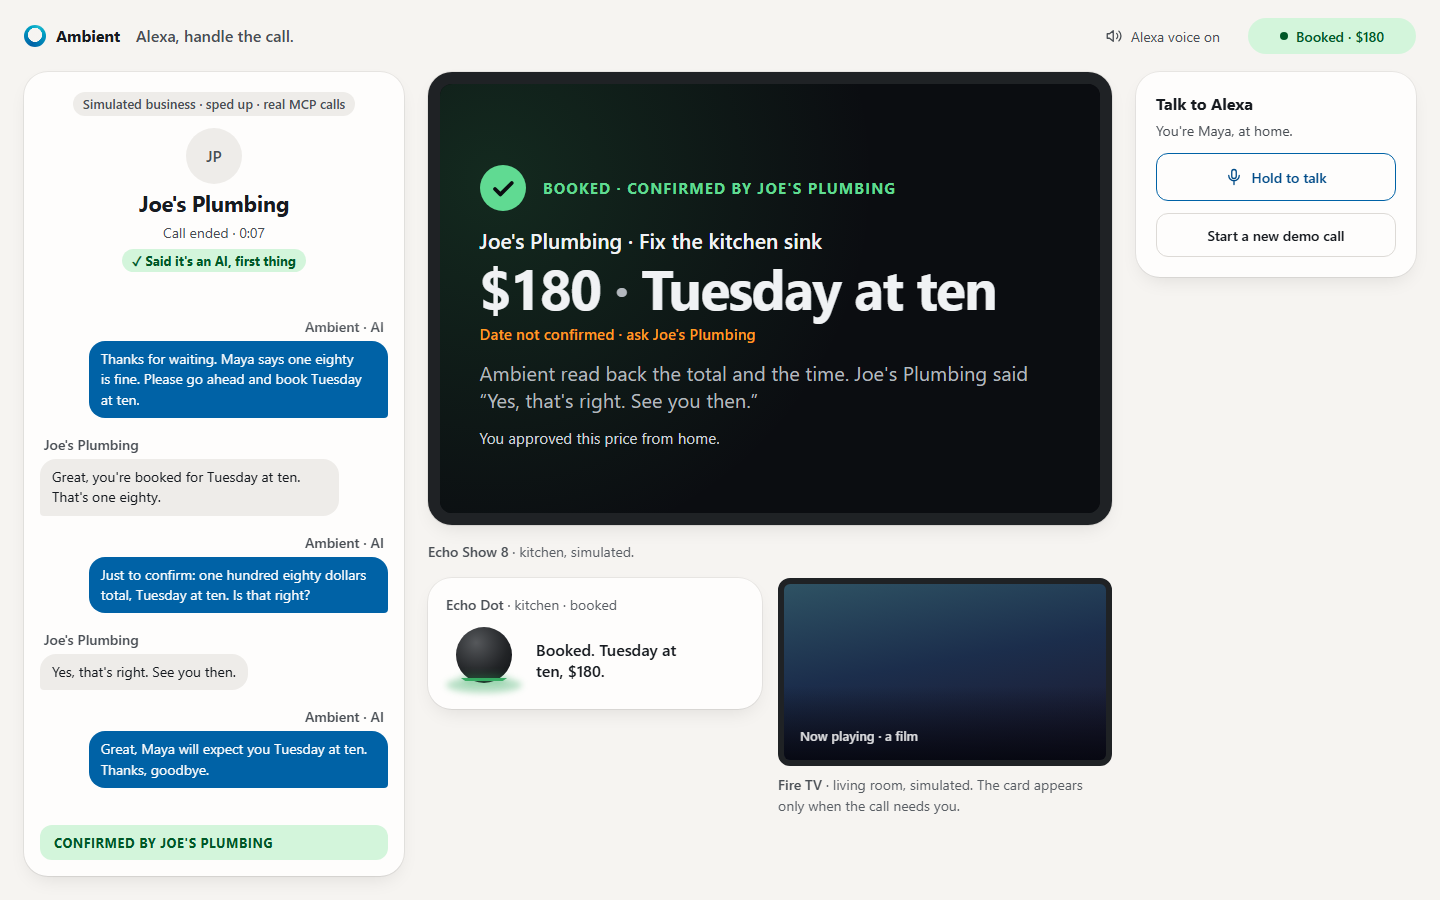
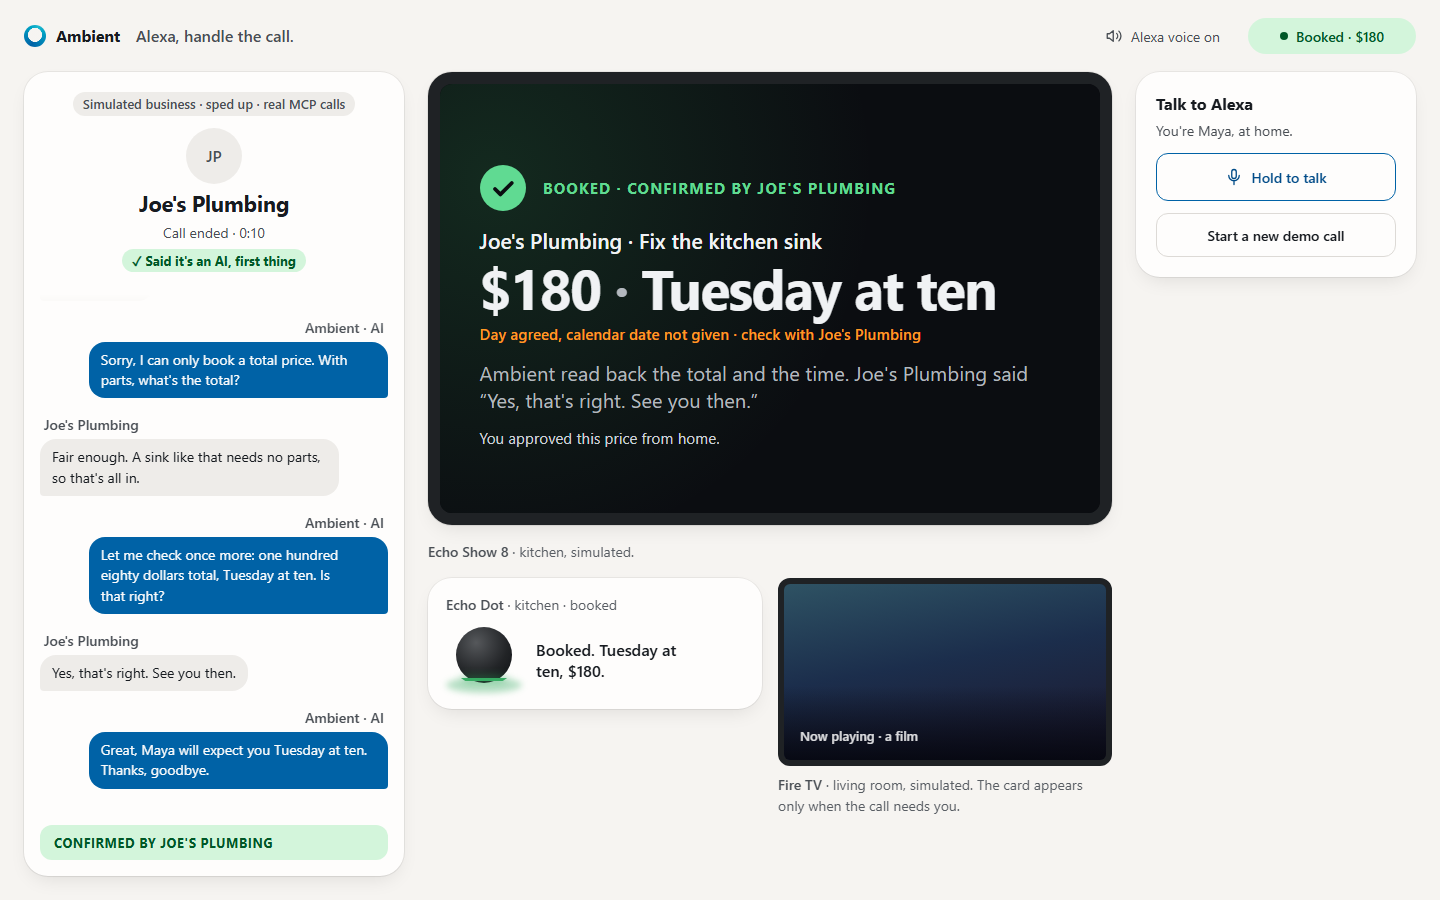
Show the refusal in the demo and fix the owner's cold start
Voice round 5 and judges round 4 asked for these.

- Joe answers the first read-back "Yes, plus parts." Ambient does not
  book, asks for the total, and reads it back again. The smoke run
  fails unless this happens, and sim-refused.png shows it.
- Opening the skill during a held call answers with the call's status
  and choices, not "Who should I call?". The reprompt repeats the
  choices, and Stop says the business is still holding.
- "offer {message}", "say {message}" and "to call {task}" are gone
  from both models, so "offer one fifty" always reaches the amount.
- Both hold lines alternate, and the demo asks the time and the price
  in separate turns.
- The booked card says "Day agreed, calendar date not given" instead
  of contradicting the read-back, and the Echo Dot drops a stale ask
  once the owner has answered.
- sim-card-hero.png is the card alone; eslint ignores .ambient/.

diff --git a/src/calls/demo.ts b/src/calls/demo.ts
@@ -7,12 +7,15 @@ export const JOES_PLUMBING: BusinessPersona = {
   name: "Joe's Plumbing",
   opening: "Oh, okay. Joe's Plumbing, this is Joe. How can I help?",
   rules: [
-    { when: /^just to confirm\b/i, reply: "Yes, that's right. See you then." },
+    { when: /^just to confirm\b/i, reply: "Yes, plus parts." },
+    { when: /^let me check once more\b/i, reply: "Yes, that's right. See you then." },
+    { when: /\bwith parts\b/i, reply: "Fair enough. A sink like that needs no parts, so that's all in." },
+    { when: /\bwhat would it cost\b/i, reply: "It'll be one eighty for the call-out and the repair." },
     { when: /\b(one (hundred )?sixty|160)\b/i, reply: "Hmm, one sixty. Alright, that works if you're my first job that morning. I'll put you down for Tuesday at ten." },
     { when: /\bone (hundred )?fifty\b/i, reply: "One fifty is too low for me. I could do one sixty." },
     { when: /\bany room on the price\b/i, reply: "Best I can do is one eighty, honestly. Parts went up this year." },
     { when: /\b(go ahead|book it|that works)\b/i, reply: "Great, you're booked for Tuesday at ten. That's one eighty." },
-    { when: /\b(sink|leak|visit|plumb)/i, reply: "Sure, we can come Tuesday at ten. It'll be one eighty for the call-out and the repair." }
+    { when: /\b(sink|leak|visit|plumb)/i, reply: "Sure, we can come Tuesday at ten." }
   ]
 };
 
@@ -29,9 +32,28 @@ export const DEMO_SCRIPT: ScriptedTurn[] = [
     when: /how can i help/i,
     reply: (_, state) => [{
       kind: "say",
-      text: ["Hi Joe. I'd like to book a visit to fix a leaking kitchen sink.", state.brief.facts[0] && `${state.brief.facts[0]}.`, "When could you come, and what would it cost?"].filter(Boolean).join(" "),
+      text: ["Hi Joe. I'd like to book a visit to fix a leaking kitchen sink.", state.brief.facts[0] && `${state.brief.facts[0]}.`, "When could you come?"].filter(Boolean).join(" "),
       last: true
     }]
+  },
+  {
+    when: /\bplus parts\b/i,
+    reply: () => [{ kind: "say", text: "Sorry, I can only book a total price. With parts, what's the total?", last: true }]
+  },
+  {
+    when: /\ball in\b/i,
+    reply: (_, state) => {
+      const readBack = state.turns.findLast(turn => turn.speaker === "agent" && /^Just to confirm:/.test(turn.text))?.text ?? "";
+      const amount = amountsIn(readBack.split(" total")[0] ?? "").at(-1);
+      return [{
+        kind: "end_call",
+        outcome: { kind: "confirmed", summary: `Joe's Plumbing confirmed Tuesday at ten${amount !== undefined ? ` for ${dollarsInWords(amount)}` : ""}.`, ...(amount !== undefined ? { amountUsd: amount } : {}), when: "Tuesday at ten" }
+      }];
+    }
+  },
+  {
+    when: /\bwe can come tuesday at ten\.$/i,
+    reply: () => [{ kind: "say", text: "Tuesday at ten works. What would it cost?", last: true }]
   },
   {
     when: /\b(booked|works)\b/i,

diff --git a/src/alexa.ts b/src/alexa.ts
@@ -60,7 +60,8 @@ function speech(value: string): { type: "SSML"; ssml: string } {
 
 function repromptFor(value: string, live: boolean): string {
   const question = value.match(/[^.?!]+\?$/)?.[0]?.trim();
-  return question ?? (live ? "Say status, or hang up." : "What should I call about?");
+  const choices = value.match(/Say approve[^.?!]*\.$/)?.[0];
+  return question ?? choices ?? (live ? "Say status, or hang up." : "What should I call about?");
 }
 
 const ENDED: RunStatus[] = ["completed", "failed", "cancelled", "unknown"];
@@ -225,7 +226,10 @@ async function intentResponse(intent: AlexaEnvelope, attributes: Record<string, 
   }
   if (name === "AMAZON.StopIntent" || name === "AMAZON.CancelIntent") {
     const live = activeCall(registry, attributes);
-    return response(live ? "Goodbye. The call is still going. Ask me how it went when you're back." : "Goodbye.", attributes, true);
+    const goodbye = !live ? "Goodbye." : live.run.approval
+      ? `Goodbye. ${live.run.subject ?? "The business"} is still holding for your answer. Say, Alexa, open Ambient, to hear it again.`
+      : "Goodbye. The call is still going. Ask me how it went when you're back.";
+    return response(goodbye, attributes, true);
   }
   if (name === "AMAZON.FallbackIntent") {
     const live = activeCall(registry, attributes);
@@ -306,7 +310,11 @@ export async function handleAlexaRequest(input: unknown, dependencies: AlexaSkil
   await authorize(envelope, dependencies);
   const attributes = sessionAttributes(envelope);
   const type = requestType(envelope);
-  if (type === "LaunchRequest") return response("Who should I call? You can say: call Joe's Plumbing to fix the kitchen sink.", attributes);
+  if (type === "LaunchRequest") {
+    const live = activeCall(dependencies.registry, attributes);
+    if (live) return response(callStatus(live), runAttributes(attributes, live.run), false, true);
+    return response("Who should I call? You can say: call Joe's Plumbing to fix the kitchen sink.", attributes);
+  }
   if (type === "SessionEndedRequest") return response("Goodbye.", attributes, true);
   if (type !== "IntentRequest") throw new AlexaRequestError(400, "Unsupported Alexa request type");
   const intent = object(requestObject(envelope).intent);

diff --git a/src/calls/session.ts b/src/calls/session.ts
@@ -82,7 +82,7 @@ function transition(state: CallState, input: CallInput, now: string): Transition
       const heard = withTurn(flushDraft(state, now), "business", input.text, now);
       if (phase.kind === "waiting_for_owner") {
         if (phase.lastHoldLine !== phase.since && !(Date.parse(now) - Date.parse(phase.lastHoldLine) >= HOLD_LINE_MS)) return { state: heard, effects: [] };
-        const line = `Still checking with ${brief.ownerName}, one moment.`;
+        const line = holdLine(state);
         return { state: { ...withTurn(heard, "agent", line, now), phase: { ...phase, lastHoldLine: now } }, effects: [say(line)] };
       }
       if (!state.disclosed) return think(heard, now);
@@ -148,8 +148,7 @@ function transition(state: CallState, input: CallInput, now: string): Transition
         return end(closed, { kind: "unconfirmed", reason: `${brief.ownerName} didn't answer in time, so nothing was agreed` }, [say(line), { kind: "hang_up" }]);
       }
       if (!(elapsed(phase.lastHoldLine) >= HOLD_LINE_MS)) return unchanged(state);
-      const holds = [`Still checking with ${brief.ownerName}, thanks for holding.`, `Thanks for holding, ${brief.ownerName} hasn't answered yet.`];
-      const line = holds[state.turns.filter(turn => turn.speaker === "agent" && holds.includes(turn.text)).length % holds.length]!;
+      const line = holdLine(state);
       return { state: { ...withTurn(state, "agent", line, now), phase: { ...phase, lastHoldLine: now } }, effects: [say(line)] };
     }
   }
@@ -251,6 +250,12 @@ function end(state: CallState, outcome: CallOutcome, effects: CallEffect[]): Tra
     state: { ...state, phase: { kind: "ended", outcome } },
     effects: [...effects, { kind: "emit", event: { type: "message.complete", payload: { text, status: "completed", outcome } } }]
   };
+}
+
+function holdLine(state: CallState): string {
+  const owner = state.brief.ownerName;
+  const lines = [`Still checking with ${owner}, thanks for holding.`, `Thanks for holding, ${owner} hasn't answered yet.`];
+  return lines[state.turns.filter(turn => turn.speaker === "agent" && lines.includes(turn.text)).length % lines.length]!;
 }
 
 function think(state: CallState, now: string): Transition {

diff --git a/scripts/smoke-mcp.ts b/scripts/smoke-mcp.ts
@@ -52,9 +52,12 @@ try {
   await call("approve", { decision: "once" });
   const done = await waitFor(["completed", "failed", "cancelled", "unknown"]);
   if (status(done) !== "completed" || !/one hundred sixty/i.test(speech(done))) throw new Error(`Expected a confirmed booking at 160, got ${status(done)}: ${speech(done)}`);
+  const steps = done.structuredContent?.task?.steps ?? [];
+  const plus = steps.indexOf("Joe's Plumbing: Yes, plus parts.");
+  if (plus < 0 || !steps.slice(plus).some(line => line.startsWith("Ambient: Let me check once more:"))) throw new Error("The call did not refuse \"yes, plus parts\" and read the total back again");
   console.log("\nThe call itself (Ambient and the simulated business, with the owner's notes):");
-  for (const line of done.structuredContent?.task?.steps ?? []) if (line.includes(": ")) console.log(`  ${line}`);
-  console.log("smoke: ok, the business countered the owner's offer and the call booked at the approved counter");
+  for (const line of steps) if (line.includes(": ")) console.log(`  ${line}`);
+  console.log("smoke: ok, the business countered, \"yes, plus parts\" did not book, and the call booked at the approved counter");
 } finally {
   await client.close();
 }

diff --git a/test/call.test.ts b/test/call.test.ts
@@ -76,6 +76,19 @@ describe("runCall with the simulated line", () => {
     expect(final.turns.some(turn => turn.speaker === "business" && /one fifty is too low/i.test(turn.text))).toBe(true);
   });
 
+  it("does not book on \"yes, plus parts\" and reads the total back again", async () => {
+    const { call, events } = start();
+    await until(call, "waiting_for_owner");
+    call.ownerDecided(String(approvalRequest(events)?.payload.requestId), "once");
+    const final = await call.done;
+    const texts = final.turns.map(turn => `${turn.speaker}: ${turn.text}`);
+    const plus = texts.indexOf("business: Yes, plus parts.");
+    expect(plus).toBeGreaterThan(0);
+    expect(texts[plus + 1]).toBe("agent: Sorry, I can only book a total price. With parts, what's the total?");
+    expect(texts.slice(plus).some(text => text.startsWith("agent: Let me check once more: one hundred eighty dollars total"))).toBe(true);
+    expect(final.phase).toMatchObject({ kind: "ended", outcome: { kind: "confirmed", amountUsd: 180 } });
+  });
+
   it("ends without a deal when the owner declines", async () => {
     const { call, events } = start();
     await until(call, "waiting_for_owner");

diff --git a/test/alexa.test.ts b/test/alexa.test.ts
@@ -109,6 +109,19 @@ describe("Alexa call intents", () => {
     close();
   });
 
+  it("opens on the held call's choices when the owner launches the skill mid-call", async () => {
+    const { deps, fake, close } = setup();
+    await startCall(deps);
+    fake.emit({ type: "approval.request", sessionId: "runtime-1", payload: { requestId: "req-1", command: "book at one hundred eighty dollars", amountUsd: 180, limitUsd: 150, kind: "spend" } });
+    const launched = await handleAlexaRequest({ ...request("unused"), request: { type: "LaunchRequest", requestId: "request-2" } }, deps);
+    expect(speechOf(launched)).not.toContain("Who should I call?");
+    expect(speechOf(launched)).toContain("one hundred eighty dollars");
+    expect(launched.response.reprompt?.outputSpeech.ssml).toMatch(/^<speak>Say approve to /);
+    const stopped = await handleAlexaRequest(request("AMAZON.StopIntent"), deps);
+    expect(speechOf(stopped)).toContain("still holding for your answer");
+    close();
+  });
+
   it("hears \"book it\" as approval", async () => {
     const { deps, fake, close } = setup();
     await startCall(deps);

diff --git a/src/task-view.ts b/src/task-view.ts
@@ -168,7 +168,7 @@ function render(d){
   if(ok)document.body.classList.add("booked");
   chip.textContent=ok?"Booked \\u00b7 confirmed by "+biz:o.kind==="unconfirmed"?"Not booked":o.kind==="declined"?"Declined":"No deal";
   if(ok){$("what").textContent=what?biz+" \\u00b7 "+what:biz;setStake(o.amountUsd,cap(o.when||biz));
-   if(!dated(o.when))flag.textContent="Date not confirmed \\u00b7 ask "+biz;}
+   if(!dated(o.when))flag.textContent="Day agreed, calendar date not given \\u00b7 check with "+biz;}
   else{stake.textContent="Nothing was booked.";$("what").textContent=[biz,what,limitOf(t.instruction)].filter(Boolean).join(" \\u00b7 ");}
   const readBack=said.some(l=>l.who==="Ambient"&&/^(Just to confirm|Let me check once more|One last check|To be sure):/.test(l.text));
   sub.textContent=ok?(theirs?(readBack?"Ambient read back the total and the time. "+biz+" said \\u201c"+theirs.text+"\\u201d":"In their words: \\u201c"+theirs.text+"\\u201d"):"Booked with "+biz+"."):t.status==="cancelled"?"You ended the call before "+biz+" confirmed.":cap(o.reason)+".";

diff --git a/test/call-session.test.ts b/test/call-session.test.ts
@@ -336,7 +336,7 @@ describe("round 2 review findings", () => {
 
   it("does not repeat the still-checking line for every business sentence", () => {
     const { effects } = play([heard("Hello?"), heard("Still there?")], quoted().state);
-    expect(spoken(effects)).toEqual(["Still checking with Maya, one moment."]);
+    expect(spoken(effects)).toEqual(["Still checking with Maya, thanks for holding."]);
   });
 
   it("keeps redacting digits that keep streaming after a card number", () => {
@@ -532,7 +532,7 @@ describe("holding", () => {
   it("answers the business while still waiting on the owner, without thinking", () => {
     const { state, effects } = play([heard("Are you still there?")], quoted().state);
     expect(state.phase.kind).toBe("waiting_for_owner");
-    expect(spoken(effects)).toEqual(["Still checking with Maya, one moment."]);
+    expect(spoken(effects)).toEqual(["Still checking with Maya, thanks for holding."]);
     expect(kinds(effects)).not.toContain("think");
   });
 

diff --git a/web/sim/index.html b/web/sim/index.html
@@ -376,6 +376,9 @@ function render() {
   if (ap) {
     const cue = `${biz} wants ${ap.amountUsd !== undefined ? usd(ap.amountUsd) : "your OK"}. Say approve, or offer an amount.`;
     if (cue !== state.lastCue) { state.lastCue = cue; speak(cue); }
+  } else if (state.lastCue) {
+    if ($("caption").textContent === state.lastCue) $("caption").textContent = live() ? `Ambient is back on the phone with ${biz}.` : "";
+    state.lastCue = null;
   }
 
   clearInterval(state.tick);

diff --git a/eslint.config.ts b/eslint.config.ts
@@ -37,6 +37,6 @@ export default tseslint.config(
     }
   },
   {
-    ignores: ["dist/**", "cdk.out/**", "node_modules/**", "infra/**", "coverage/**", "dashboard/**"]
+    ignores: ["dist/**", "cdk.out/**", "node_modules/**", "infra/**", "coverage/**", "dashboard/**", ".ambient/**", ".audit/**"]
   }
 );

diff --git a/scripts/shots-sim.py b/scripts/shots-sim.py
@@ -2,7 +2,8 @@
 """Screenshot the /sim page through full simulated calls.
 
 Usage: python scripts/shots-sim.py [base_url]
-Needs a fresh `pnpm demo` server, and playwright with chromium installed.
+Needs a fresh `pnpm demo` server started with AMBIENT_DATA_DIR set to an
+empty directory, and playwright with chromium installed.
 """
 import asyncio
 import re
@@ -55,12 +56,16 @@ async def main():
             await shot(page, "talking")
             await phase(page, "needs")
             await shot(page, "needs-you")
+            await page.locator("#show8").screenshot(path=OUT / "sim-card-hero.png")
+            print("saved card-hero")
             await tap(page, r"^Offer \$150")
             await page.wait_for_selector(".note", timeout=10000)
             await shot(page, "steered")
             await page.frame_locator("#show8").get_by_role("button", name=re.compile(r"^Book \$160")).wait_for(timeout=30000)
             await shot(page, "countered")
             await tap(page, r"^Book \$160")
+            await page.get_by_text("With parts, what's the total?").wait_for(timeout=30000)
+            await shot(page, "refused")
             await page.wait_for_selector(".outcome.ok", timeout=30000)
             await shot(page, "confirmed")
             await page.click("#again")
